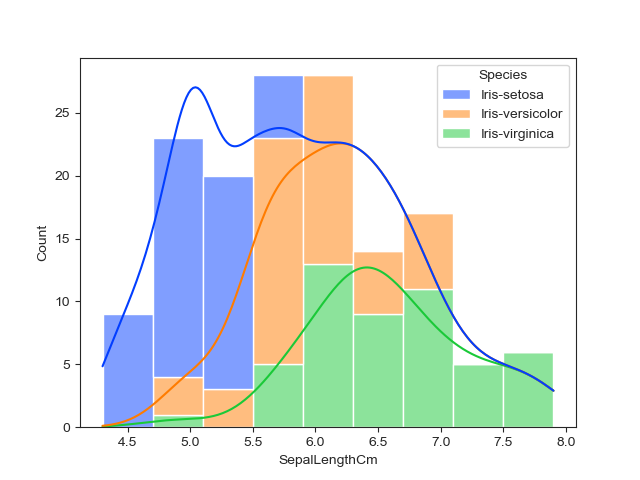
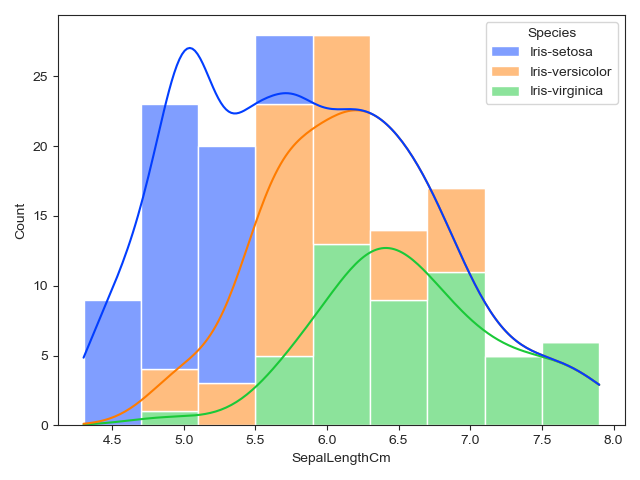
graphs

diff --git a/Analysis.py b/Analysis.py
@@ -44,24 +44,29 @@ sns.color_palette("husl", 9)                                              # Set 
 # Histogram of Variable
 
 # Simple Histogram Output
-hisplot1 = sns.histplot(df["SepalWidthCm"], bins=16, palette=("husl"))    
+hisplot1 = sns.histplot(df["SepalWidthCm"], bins=16, palette=("husl"))   
+plt.tight_layout()  
 plt.savefig("Hisplot.png") 
 plt.show()
 
 # Varients of Histogram 
 sns.histplot( data=df, x="SepalLengthCm", legend=True, kde=True, hue="Species", multiple="stack")
-plt.savefig("HisplotA.png") 
+plt.tight_layout() 
+plt.savefig("HisplotA.png")                                                              
 plt.show()
 
 sns.histplot( data=df, x="SepalWidthCm", legend=True, hue="Species", element="poly")
+plt.tight_layout() 
 plt.savefig("HisplotB.png") 
 plt.show()
 
 sns.histplot( data=df, x="PetalLengthCm", legend=True, kde=True, hue="Species", element="step",stat="density", common_norm=False)
+plt.tight_layout() 
 plt.savefig("HisplotC.png") 
 plt.show()
 
 sns.histplot( data=df, x="PetalWidthCm", y="Species", legend=True, hue="Species")
+plt.tight_layout() 
 plt.savefig("HisplotD.png") 
 plt.show()
 
